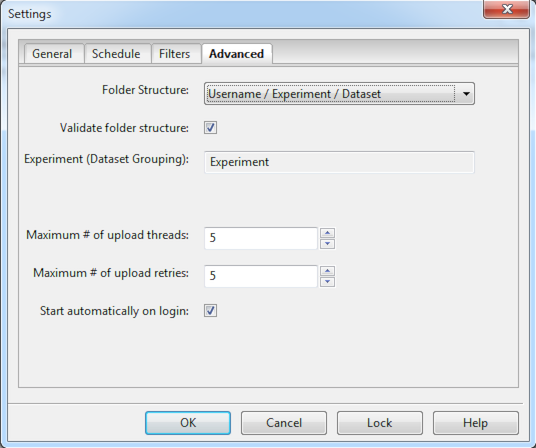
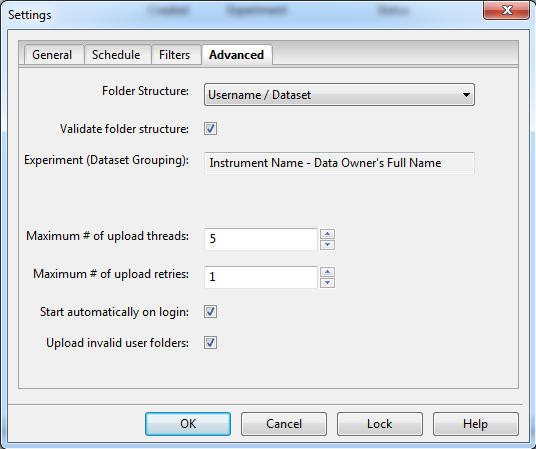
Allowing user to disable uploading of invalid user folders.

diff --git a/mydata/models/settings.py b/mydata/models/settings.py
@@ -150,6 +150,7 @@ class SettingsModel(object):
         self.max_upload_threads = 5
         self.max_upload_retries = 1
         self.start_automatically_on_login = True
+        self.upload_invalid_user_folders = True
 
         self.locked = False
         self.uuid = ""
@@ -216,6 +217,7 @@ class SettingsModel(object):
         self.max_upload_retries = 1
         self.validate_folder_structure = True
         self.start_automatically_on_login = True
+        self.upload_invalid_user_folders = True
 
         self.locked = False
 
@@ -245,7 +247,8 @@ class SettingsModel(object):
                           "ignore_interval_unit", "max_upload_threads",
                           "max_upload_retries",
                           "validate_folder_structure", "locked", "uuid",
-                          "start_automatically_on_login"]
+                          "start_automatically_on_login",
+                          "upload_invalid_user_folders"]
                 for field in fields:
                     if configParser.has_option(configFileSection, field):
                         self.__dict__[field] = \
@@ -280,6 +283,11 @@ class SettingsModel(object):
                     self.start_automatically_on_login = \
                         configParser.getboolean(configFileSection,
                                                 "start_automatically_on_login")
+                if configParser.has_option(configFileSection,
+                                           "upload_invalid_user_folders"):
+                    self.upload_invalid_user_folders = \
+                        configParser.getboolean(configFileSection,
+                                                "upload_invalid_user_folders")
                 if configParser.has_option(configFileSection,
                                            "locked"):
                     self.locked = configParser.getboolean(configFileSection,
@@ -358,6 +366,7 @@ class SettingsModel(object):
                             "ignore_old_datasets",
                             "validate_folder_structure",
                             "start_automatically_on_login",
+                            "upload_invalid_user_folders",
                             "locked",
                             "monday_checked", "tuesday_checked",
                             "wednesday_checked", "thursday_checked",
@@ -568,6 +577,12 @@ class SettingsModel(object):
     def SetStartAutomaticallyOnLogin(self, startAutomaticallyOnLogin):
         self.start_automatically_on_login = startAutomaticallyOnLogin
 
+    def UploadInvalidUserFolders(self):
+        return self.upload_invalid_user_folders
+
+    def SetUploadInvalidUserFolders(self, uploadInvalidUserFolders):
+        self.upload_invalid_user_folders = uploadInvalidUserFolders
+
     def Locked(self):
         return self.locked
 
@@ -700,7 +715,8 @@ class SettingsModel(object):
                       "ignore_interval_unit", "max_upload_threads",
                       "max_upload_retries",
                       "validate_folder_structure", "locked", "uuid",
-                      "start_automatically_on_login"]
+                      "start_automatically_on_login",
+                      "upload_invalid_user_folders"]
             settingsList = []
             for field in fields:
                 value = self.__dict__[field]
@@ -759,6 +775,8 @@ class SettingsModel(object):
             settingsDialog.ValidateFolderStructure())
         self.SetStartAutomaticallyOnLogin(
             settingsDialog.StartAutomaticallyOnLogin())
+        self.SetUploadInvalidUserFolders(
+            settingsDialog.UploadInvalidUserFolders())
 
         self.SetLocked(settingsDialog.Locked())
 

diff --git a/mydata/views/settings.py b/mydata/views/settings.py
@@ -573,7 +573,7 @@ class SettingsDialog(wx.Dialog):
 
         # Advanced tab
 
-        self.advancedPanelSizer = wx.FlexGridSizer(rows=9, cols=3,
+        self.advancedPanelSizer = wx.FlexGridSizer(rows=10, cols=3,
                                                    vgap=5, hgap=5)
         self.advancedPanel.SetSizer(self.advancedPanelSizer)
         # self.advancedPanelSizer.AddGrowableCol(1)
@@ -692,6 +692,19 @@ class SettingsDialog(wx.Dialog):
             wx.CheckBox(self.advancedPanel, wx.ID_ANY, "")
         self.advancedPanelSizer\
             .Add(self.startAutomaticallyCheckBox,
+                 flag=wx.EXPAND | wx.ALL, border=5)
+        self.advancedPanelSizer.Add(wx.StaticText(self.advancedPanel,
+                                                  wx.ID_ANY, ""))
+
+        uploadInvalidUserFoldersLabel = \
+            wx.StaticText(self.advancedPanel, wx.ID_ANY,
+                          "Upload invalid user folders:")
+        self.advancedPanelSizer.Add(uploadInvalidUserFoldersLabel,
+                                    flag=wx.ALIGN_RIGHT | wx.ALL, border=5)
+        self.uploadInvalidUserFoldersCheckBox = \
+            wx.CheckBox(self.advancedPanel, wx.ID_ANY, "")
+        self.advancedPanelSizer\
+            .Add(self.uploadInvalidUserFoldersCheckBox,
                  flag=wx.EXPAND | wx.ALL, border=5)
         self.advancedPanelSizer.Add(wx.StaticText(self.advancedPanel,
                                                   wx.ID_ANY, ""))
@@ -1026,6 +1039,13 @@ class SettingsDialog(wx.Dialog):
         self.startAutomaticallyCheckBox.SetValue(
             startAutomaticallyOnLogin)
 
+    def UploadInvalidUserFolders(self):
+        return self.uploadInvalidUserFoldersCheckBox.GetValue()
+
+    def SetUploadInvalidUserFolders(self, uploadInvalidUserFolders):
+        self.uploadInvalidUserFoldersCheckBox.SetValue(
+            uploadInvalidUserFolders)
+
     def Locked(self):
         return self.lockOrUnlockButton.GetLabel() == "Unlock"
 
@@ -1140,6 +1160,8 @@ class SettingsDialog(wx.Dialog):
             settingsModel.ValidateFolderStructure())
         self.SetStartAutomaticallyOnLogin(
             settingsModel.StartAutomaticallyOnLogin())
+        self.SetUploadInvalidUserFolders(
+            settingsModel.UploadInvalidUserFolders())
 
         # This needs to go last, because it sets the enabled / disabled
         # state of many fields which depend on the values obtained from
@@ -1444,6 +1466,7 @@ class SettingsDialog(wx.Dialog):
         self.maxUploadThreadsSpinCtrl.Enable(enabled)
         self.maxUploadRetriesSpinCtrl.Enable(enabled)
         self.startAutomaticallyCheckBox.Enable(enabled)
+        self.uploadInvalidUserFoldersCheckBox.Enable(enabled)
         self.Update()
 
     def DisableFields(self):

diff --git a/mydata/dataviewmodels/folders.py b/mydata/dataviewmodels/folders.py
@@ -522,6 +522,7 @@ class FoldersModel(DataViewIndexListModel):
                 userRecord.SetDataViewId(usersDataViewId)
                 self.usersModel.AddRow(userRecord)
                 userFolderPath = os.path.join(dataDir, userFolderName)
+                logger.debug("Folder structure: " + folderStructure)
                 if folderStructure == 'Username / Dataset' or \
                         folderStructure == 'Email / Dataset':
                     self.ScanForDatasetFolders(userFolderPath, userRecord,
@@ -561,6 +562,11 @@ class FoldersModel(DataViewIndexListModel):
                     wx.CallAfter(wx.GetApp().GetMainFrame().SetStatusMessage,
                                  "Data uploads canceled")
                     return
+                if not self.settingsModel.UploadInvalidUserFolders():
+                    logger.warning("Skipping %s, because "
+                                   "'Upload invalid user folders' "
+                                   "setting is not checked." % userFolderName)
+                    continue
                 if folderStructure.startswith("Username"):
                     userRecord = UserModel(settingsModel=self.settingsModel,
                                            username=userFolderName,
@@ -646,6 +652,8 @@ class FoldersModel(DataViewIndexListModel):
             dirsDepth1 = [item for item in filesDepth1 if os.path.isdir(item)]
             datasetFolders = [os.path.basename(d) for d in dirsDepth1]
             for datasetFolderName in datasetFolders:
+                logger.debug("Found folder assumed to be dataset: " +
+                             datasetFolderName)
                 if self.ignoreOldDatasets:
                     datasetFolderPath = os.path.join(pathToScan,
                                                      datasetFolderName)
@@ -704,7 +712,7 @@ class FoldersModel(DataViewIndexListModel):
                 folderModel.SetExperimentTitle(experimentTitle)
                 self.AddRow(folderModel)
         except:
-            print traceback.format_exc()
+            logger.error(traceback.format_exc())
 
     def ScanForExperimentFolders(self, pathToScan, owner, userFolderName):
         """

diff --git a/mydata/__init__.py b/mydata/__init__.py
@@ -3,7 +3,7 @@ mydata/__init__.py
 """
 import sys
 
-__version__ = "0.5.2"
+__version__ = "0.5.3-beta1"
 
 
 try:

diff --git a/docs/source/settings.rst b/docs/source/settings.rst
@@ -261,6 +261,13 @@ Advanced
     ~/Library/Preferences/com.apple.loginitems.plist which can be accessed from
     System Preferences, Users & Groups, Login Items.
 
+**Upload invalid user folders**
+    If MyData finds a user (or group) folder which doesn't match a user (or group) on
+    the MyTardis server, it can be configured to upload the data anyway (and assign it
+    to the facility role account) by leaving this checkbox ticked.  Or the checkbox can
+    be unticked if you want MyData to ignore user folders which can't be mapped to users
+    or groups on the MyTardis server.
+
 
 Locking and Unlocking MyData's Settings
 ^^^^^^^^^^^^^^^^^^^^^^^^^^^^^^^^^^^^^^^
